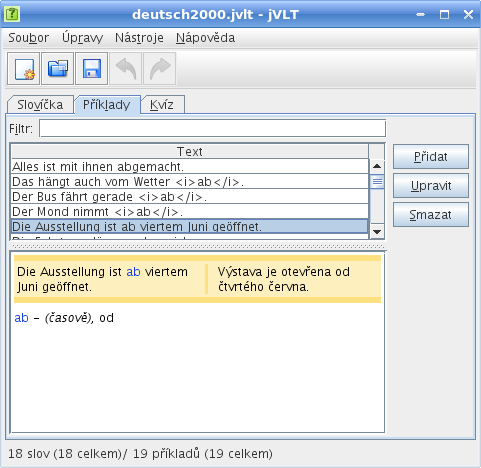
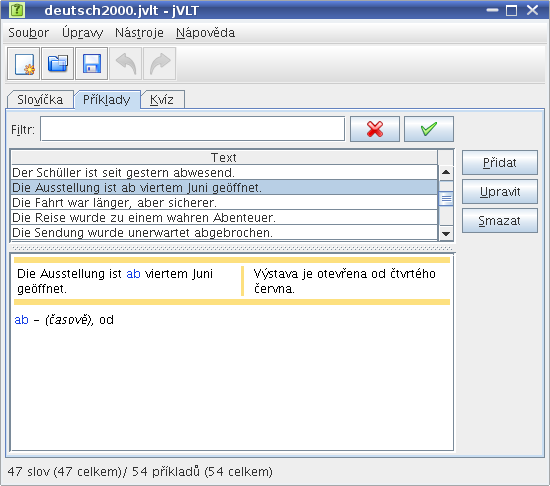
Czech translation updated by Vít Profant
git-svn-id: https://svn.code.sf.net/p/jvlt/code/trunk@212 2e8f9017-362f-4c5f-8fba-3cd18fd43268

diff --git a/jvlt-main/doc/cs_CZ/doc-vocabulary.html b/jvlt-main/doc/cs_CZ/doc-vocabulary.html
@@ -40,28 +40,27 @@ náhled.
 <h2>
 <a name="word_list">Seznam slov</a>
 </h2>
-V seznamu slov se zpočátku zobrazují všechna slova vašeho slovníčku.
-Způsoby, jak hledat určitá hesla, jsou dva. První možností je zadat
-řetězec do textového pole &bdquo;Filtr&ldquo; a následně stisknout
-&bdquo;Enter&ldquo;. Pak se v seznamu zobrazí ta slova, která obsahují
-filtrovací řetězec, a ta, u nichž ho obsahuje výslovnost nebo význam.
-Chcete-li mít seznam znovu úplný, řetězec v textovém poli filtru
-vymažte a znovu stiskněte &bdquo;Enter&ldquo;.<br>
+V seznamu slov se zpočátku zobrazují všechna slova vašeho slovníčku. Vyhledávat
+hesla je možné prostřednictvím řádky &bdquo;Filtr&ldquo; přímo nad tabulkou se slovy.
+Volbou položky z rozbalovacího seznamu určíte typ vyhledávání. Pak můžete
+do textového pole zadat nějaký výraz a pro uplatnění filtru stisknout tlačítko
+se zatržítkem nebo stisknout klávesu &bdquo;Enter&ldquo;. Stisknutím tlačítka
+s křížkem filtr zrušíte a v důsledku toho se zobrazí všechna slova.<br>
 <br>
 
 <img alt="Filter" src="filter.png"> <br>
 <br>
-Druhou možností je aktivovat políčko &bdquo;Pokročilý filtr&ldquo; a poté
-definovat filtr v dialogu, který se objeví po stisknutí tlačítka s nápisem
-&bdquo;Podrobnosti...&ldquo;.<br>
-Filtry se skládají z jednoho nebo mnoha subfiltrů; každý je představován
-řádkou, která obsahuje tři sloupce. V prvním sloupci vybíráte vlastnost
-(Originál, Výslovnost atd.), v druhém sloupci typ porovnávání, např.
+Pokud v rozbalovacím seznamu vyberete položku &bdquo;Pokročilý filtr&ldquo;,
+nahradí se tlačítko se zatržítkem tlačítkem s &bdquo;...&ldquo;. Po jeho
+stisknutí se objeví dialog, kde lze definovat sofistikovanější filtr.<br>
+Takovéto filtry se skládají z jednoho nebo mnoha subfiltrů; každý je
+představován řádkou, která obsahuje tři sloupce. V prvním sloupci vybíráte
+vlastnost (Originál, Výslovnost atd.), v druhém sloupci typ porovnávání, např.
 &bdquo;se rovná&ldquo;, &bdquo;je větší než&ldquo; nebo &bdquo;je menší
 než&ldquo;. Do posledního sloupce se zadává hodnota. Tou je textový řetězec,
 číslo, datum nebo seznam textových řetězců, což závisí na vybrané vlastnosti
 a typu porovnávání. Subfiltry můžete přidávat a mazat stisknutím tlačítka
-&bdquo;Více&ldquo;, resp. &bdquo;Méně&ldquo; a celý filtr resetujete kliknutím
+&bdquo;Více&ldquo;, resp. &bdquo;Méně&ldquo; a celý filtr vyčistíte kliknutím
 na tlačítko &bdquo;Reset&ldquo;. Výběrem z možností &bdquo;Vyhovět všem
 následujícím&ldquo; a &bdquo;Vyhovět jednomu z následujících&ldquo; určujete,
 zda se musí vyhovět všem subfiltrům, nebo jen jednomu z nich.<br>
@@ -114,7 +113,7 @@ slov, spolu s jeho výslovností, překladem a příklady.
 V <a href="doc-settings.html#appearance-settings">záložce vzhledu</a>
 v dialogu nastavení můžete určit, kolik detailů se bude zobrazovat.
 Je-li vybrán příklad, je význam sdružený s dotyčným příkladem zvýrazněn.
-Dvojitým kliknutím na konkrétním příkladu se dostanete do
+Kliknutím na odkaz &bdquo;Upravit&ldquo; vedle příkladu se dostanete do
 <a href="doc-examples.html"> záložky příkladů</a>.
 <br>
 <br>
@@ -138,17 +137,20 @@ se obrázek zobrazí.
 <a name="add_word">Přidávání slov</a> 
 </h2>
 Kliknutím na tlačítko &bdquo;Přidat&ldquo; vedle seznamu slov můžete do
-svého slovníčku přidat slovo. V dialogu, který se otevře, můžete vidět
-dvě textová pole: &bdquo;Originál&ldquo; a &bdquo;Výslovnost&ldquo;.
-Prvně jmenované textové pole je povinné, druhé je volitelné. Má-li
-slovo, které budete vkládat, více možných výslovností, stiskněte
-tlačítko &bdquo;Více...&ldquo;.<br>
+svého slovníčku přidat slovo. V dialogu, který se otevře, budou
+tři textová pole: &bdquo;Originál&ldquo;, &bdquo;Výslovnost&ldquo;
+a &bdquo;Lekce&ldquo;. Prvně jmenované textové pole je povinné, druhé
+a třetí jsou volitelná. Má-li slovo, které budete vkládat, více možných
+výslovností, stiskněte tlačítko &bdquo;Více...&ldquo;. Existující lekce
+lze zvolit stisknutím tlačítka s šipkou vedle textového pole and
+vybráním dané lekce z rozbalovací nabídky.<br>
+<br>
 <br>
 
 <img alt="Add word" src="add_word.png"> <br>
 <br>
 Slovo musí mít nejméně jeden význam. Významy můžete přidávat stisknutím
-tlačítka &bdquo;Přidat význam&ldquo; vedle náhledu na jejich seznam a zadáním
+tlačítka &bdquo;Přidat&ldquo; vedle náhledu na jejich seznam a zadáním
 řetězců do textového pole &bdquo;Překlad&ldquo; nebo do textového pole
 &bdquo;Definice&ldquo;. Definice slova je krátká poznámka o jeho typu,
 použití atd. Nemusíte vepisovat text do obou polí, stačí do jednoho.

diff --git a/jvlt-main/doc/cs_CZ/doc-examples.html b/jvlt-main/doc/cs_CZ/doc-examples.html
@@ -36,12 +36,12 @@
 
 Záložka příkladů obsahuje dvě hlavní součásti: Seznam příkladů a informační
 oblast, kde se zobrazuje příklad momentálně vybraný v seznamu příkladů.
-Pokud dvojitě poklepete na jedno ze slov v informační oblasti, aktivuje se
+Pokud klepnete na jedno ze slov v informační oblasti, aktivuje se
 <a href="doc-vocabulary.html">záložka slovíček</a> a vybere se příslušné
 slovo. Stejně jako záložka slovíček, i záložka příkladů obsahuje textové
-pole &bdquo;Filtr&ldquo;. Zadáte-li do něj řetězec a stisknete klávesu
-&bdquo;Enter&ldquo;, zobrazí se pouze ty příklady, které obsahují zadaný
-řetězec. Pomocí tlačítek vedle seznamu příkladů můžete
+pole &bdquo;Filtr&ldquo;. Zadáte-li do něj řetězec a stisknete tlačítko
+se zatržítkem nebo klávesu &bdquo;Enter&ldquo;, zobrazí se pouze ty příklady,
+které obsahují zadaný řetězec. Pomocí tlačítek vedle seznamu příkladů můžete
 <a href="#add_example">vkládat</a>, měnit nebo mazat příklady.
 <br>
 <br>

diff --git a/jvlt-main/doc/cs_CZ/doc-quizzes.html b/jvlt-main/doc/cs_CZ/doc-quizzes.html
@@ -41,8 +41,8 @@ při testu věděli. Číslo sady slov, která jste věděli, se zvyšuje
 č.&nbsp;<i>2</i>), slova, která jste nevěděli, jsou zařazena do sady
 č.&nbsp;<i>0</i>. Po kvízu se slovo stane neaktivním na určitou dobu, jejíž
 délka závisí na tom, ve které sadě slovo právě je. &bdquo;Neaktivní&ldquo;
-znamená, že otázka na toto slovo se v kvízu neobjeví. Datu, kdy se
-slovo stane znovu aktivním, se také říká &bdquo;datum vypršení&ldquo;.
+znamená, že toto slovo se v kvízu neobjeví. Datum, kdy se
+slovo stane znovu aktivním, se také nazývá &bdquo;datum vypršení&ldquo;.
 Dobu do vypršení lze přizpůsobit v
 <a href="doc-settings.html#general_settings">dialogu nastavení</a>.
 Níže jsou uvedeny přednastavené hodnoty:
